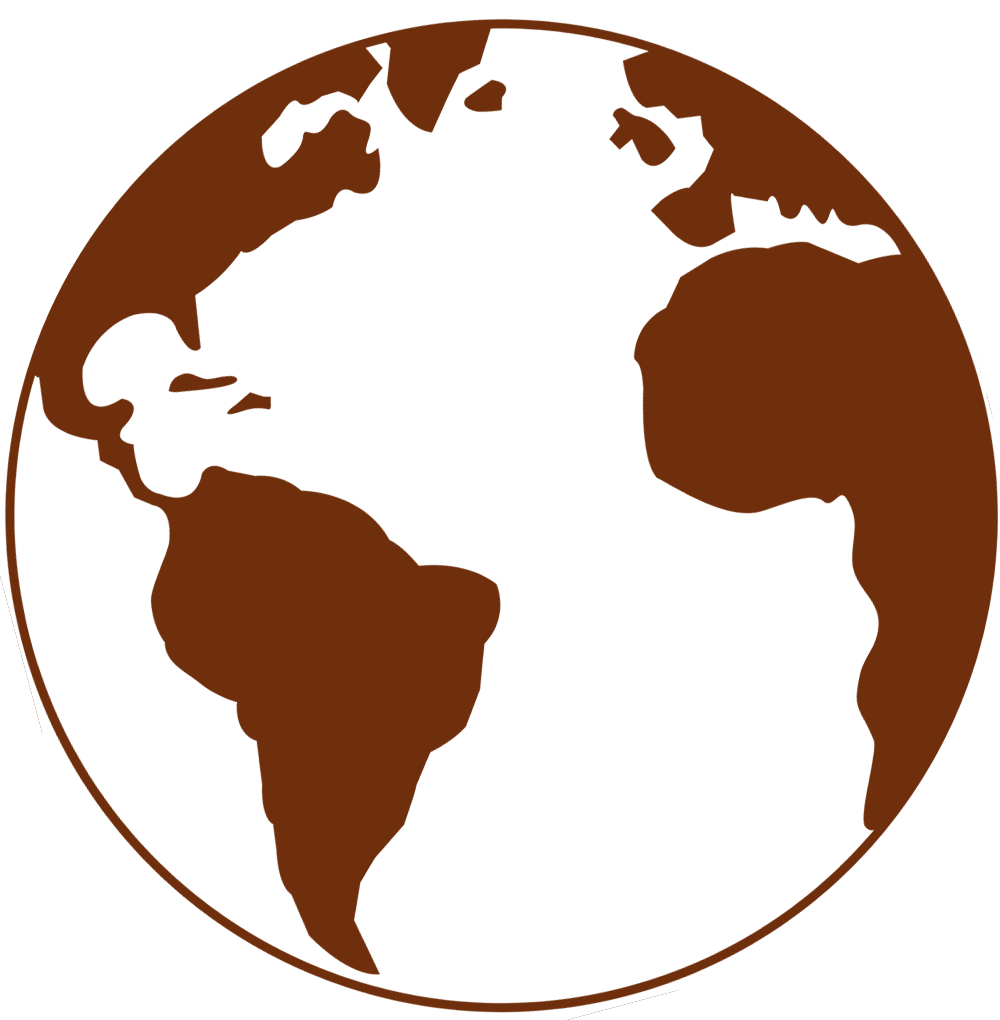
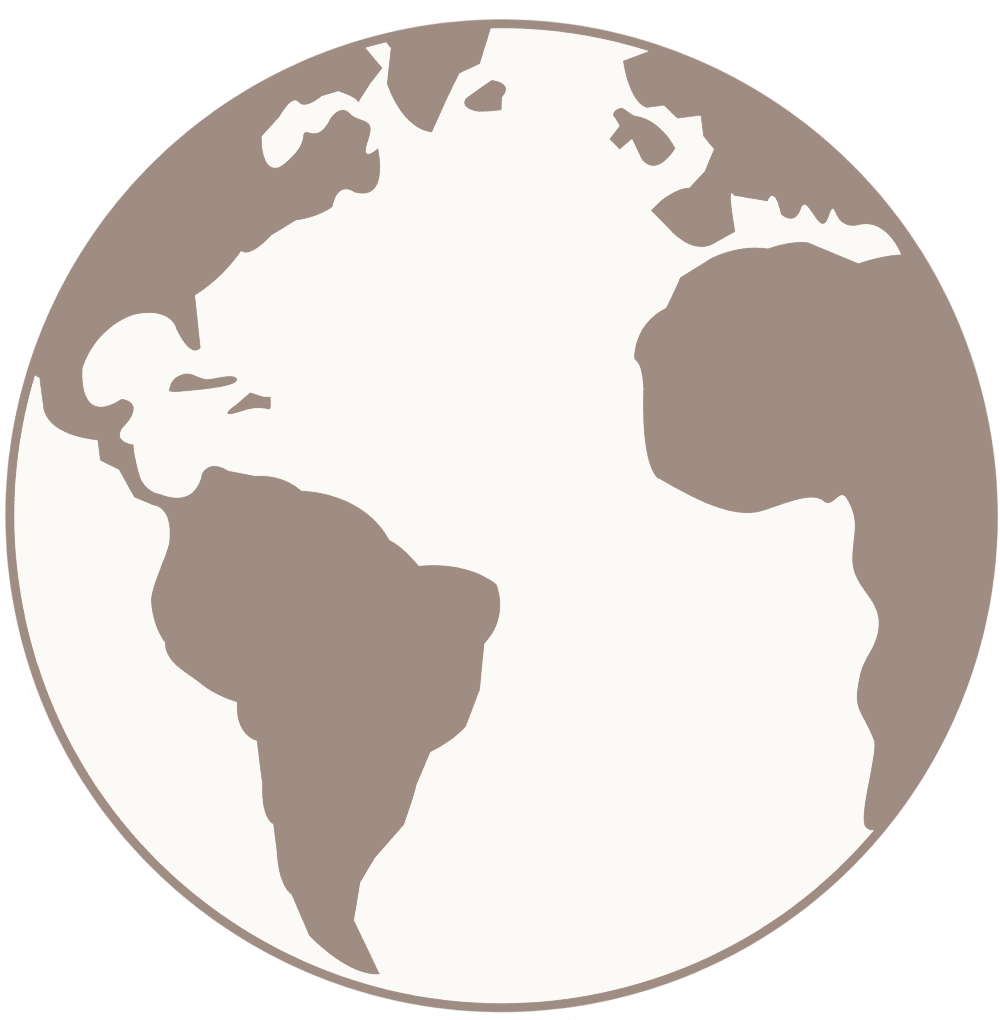
pre-shay css

diff --git a/app/assets/stylesheets/user.css.scss b/app/assets/stylesheets/user.css.scss
@@ -1,44 +1,29 @@
-@keyframes rot {
-  from {
-    transform: rotate(0deg)
-    translate(-150px)
-    rotate(0deg);
-  }
-  to {
-    transform: rotate(360deg)
-    translate(-150px) 
-    rotate(-360deg);
-  }
-}
-@-webkit-keyframes rot {
-  from {
-    -webkit-transform: rotate(0deg)
-    translate(-8px)
-    rotate(0deg);
-  }
-  to {
-    -webkit-transform: rotate(360deg)
-    translate(-8px) 
-    rotate(-360deg);
-  }
-}
+@import url(http://fonts.googleapis.com/css?family=Source+Sans+Pro:200,400,600|Source+Code+Pro:200,400,600);
+$lightBeige:#F8F5ED;
+$darkBeige:#e2dfd7;
+$green:#2ecc71;
+$blue:#3498db;
+$red:#5b0000; //#a00000;
+$brown: #3f1a05;
 
 #landing {
-  box-shadow: inset 0 60px 0px -10px #3498db;
-  background: #F8F5ED;  
-  color: #6E2E0C;
+  box-shadow: inset 0 60px 0px -10px $red;
+  background: $lightBeige;  
+  color: $brown;
+  font-family: 'Source Sans Pro', sans-serif;
   nav {
     width: 70%;
-    height: 100px;
-    line-height: 100px;
+    height: 70px;
+    line-height: 70px;
     margin: 0 auto;
-    a, a:hover, a:visited, a:active { color: #e67e22; text-decoration: none; }
+    box-shadow: -5px 5px 0px $darkBeige;
+    a, a:hover, a:visited, a:active { display: inline-block; color: $brown; text-decoration: none; }
     a {
-      display: block;
+      display: inline-block;
       font-size: 18pt; 
-      float: left;
+      font-weight: 200;
       text-align: center;
-      width: 33%;
+      width: 33.3%;
       background: white;
       &:hover {
         background: linear-gradient(#FFF 0%, #EEE 100%);
@@ -46,44 +31,38 @@
     }
   }
   .hello-world {
-    background: url('world_texture.png');
+    //background: url('world_texture.png');
+    background: url('hello_grunge.png');
     margin: -70px 0 0 0;
     height: 500px;
     box-shadow: inset 0 -40px 40px -40px rgba(110,46,12,0.15); //#6E2E0C
+    position: relative;
+    z-index: -20;
     .world {
-      background: url('earth.png');
-      background-position: 140% -15%;
+      //background: url('earth.png');
+      background-position: 140% 75px;
       background-size: 60% auto;
       background-repeat: no-repeat;
       height: 500px;
       width: 100%;
       position: absolute;
+      z-index: -10;
     } 
-    .hello, .bonjour, .hola, .gutin-tag, .buon-giorno, .previet, .konnichiwa, .chinese {
-      text-shadow: 0 0 2px white;
-      position: absolute;
-      font-size: 24pt;
-    }
-    .hello, .hola, .konnichiwa { animation: rot 10s infinite linear;-webkit-animation: rot 10s infinite linear; }
-    .bonjour, .previet, .chinese { animation: rot 8s infinite linear;-webkit-animation: rot 8s infinite linear; }
-    .gutin-tag, .buon-giorno, .konnichiwa { animation: rot 12s infinite linear;-webkit-animation: rot 12s infinite linear; }
-    .hello        { right: 20%;top: 20%; }
-    .bonjour      { right: 15%;top: 80%; }
-    .hola         { right: 25%;top: 70%; }
-    .gutin-tag    { right: 08%;top: 40%; }
-    .buon-giorno  { right: 28%;top: 60%; }
-    .previet      { right: 06%;top: 60%; }
-    .konnichiwa   { right: 18%;top: 30%; }
-    .chinese      { right: 22%;top: 50%; }
   }
   .cta {
-    h1, h2 { width: 100%; text-align: left; padding: 0; margin: 0; }
-    width: 40%;
-    padding-left: 10%;
-    height: 100%;
-    padding-top: 150px;
+    $cta: rgba(249, 248, 244, 0.8);
+    background: $cta;
+    border: 1px solid rgba(249, 248, 244, 1);
+    //background: rgba(255,255,255,1);
+    h1, h2 { text-align: center; width: 100%; text-align: left; padding: 0; margin: 0; }
+    position: absolute;
+    box-shadow: -5px 5px $darkBeige;
+    padding: 20px 30px 30px 30px;
+    top: 30%;
+    left: 10%;
     h1 {
-      font-size: 72pt;
+      text-shadow: 1px 4px 6px $cta, 0 0 0 #FFF, 1px 4px 6px $cta;
+      font-size: 96pt;
     }
   }
   .what {
@@ -118,7 +97,7 @@
       position: absolute;
       top: 50%;
       left: 25%;
-      background: #3498db;  
+      background: $blue;  
       -webkit-transform: rotate(45deg);
     }
     .icon-description {
@@ -127,8 +106,7 @@
       clear: both;
       width: 80%;
       margin: 0 auto;
-      height: 300px;
-      background: #3498db; //#2ecc71
+      background: $blue; 
       text-align: center;
       h1 {
         padding: 0;
@@ -141,9 +119,13 @@
       }
     } 
   }
+  .nudge {
+    margin-left: -4px;
+  }
   padding: 20px 0 0 0;
   margin: 0;
-  width: 1440px;
+  min-width: 800px;
+  max-width: 1440px;
   position: relative;
   margin: 0 auto;
 }

diff --git a/app/models/semantic_parser.rb b/app/models/semantic_parser.rb
@@ -44,7 +44,7 @@ class SemanticParser
   def assign_proficiency_levels
     json.each do |index,options|
       if options.key?("target")
-        json[index]["level"] = index % 10
+        json[index]["level"] = index % 30
       else
         json[index]["level"] = 9001
       end
